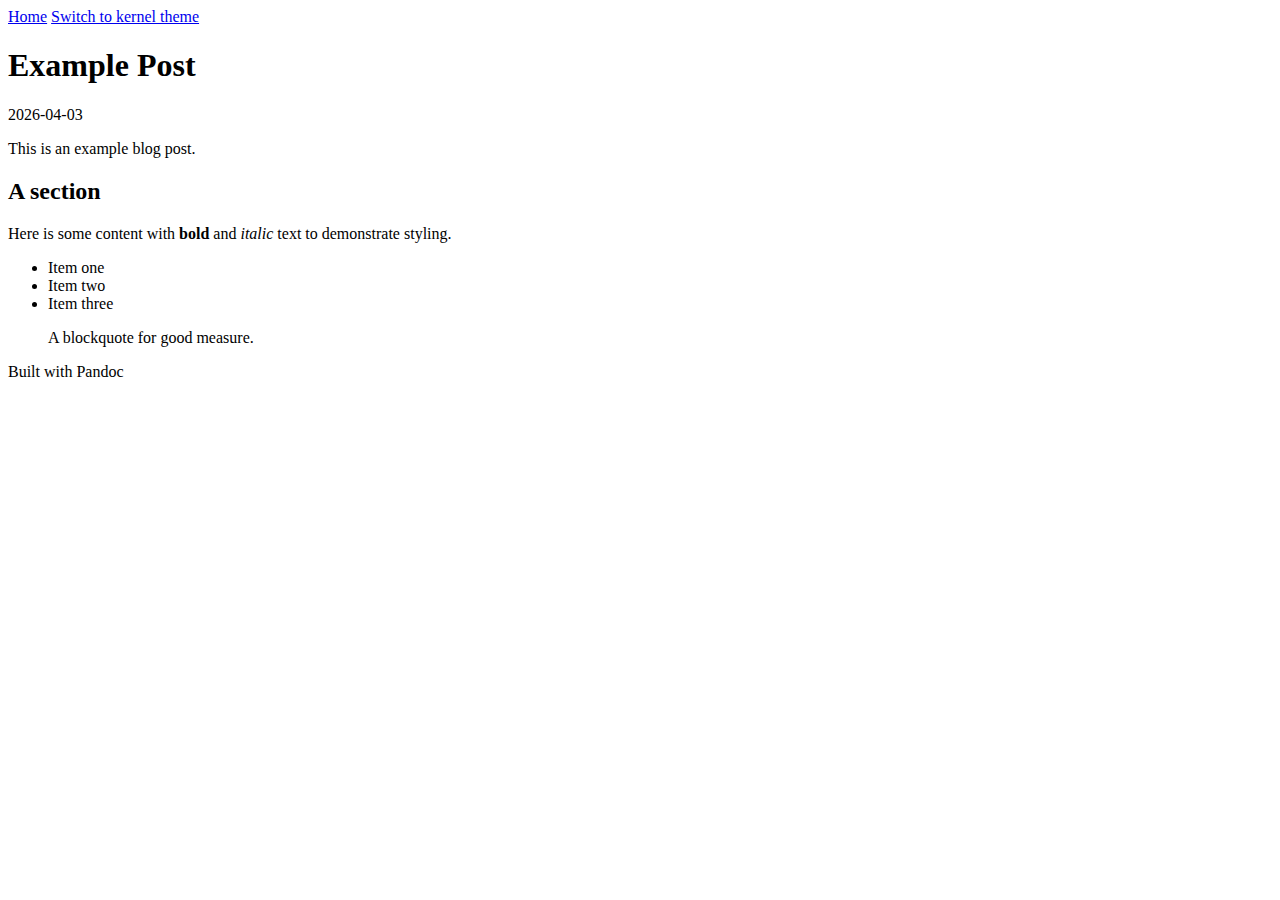
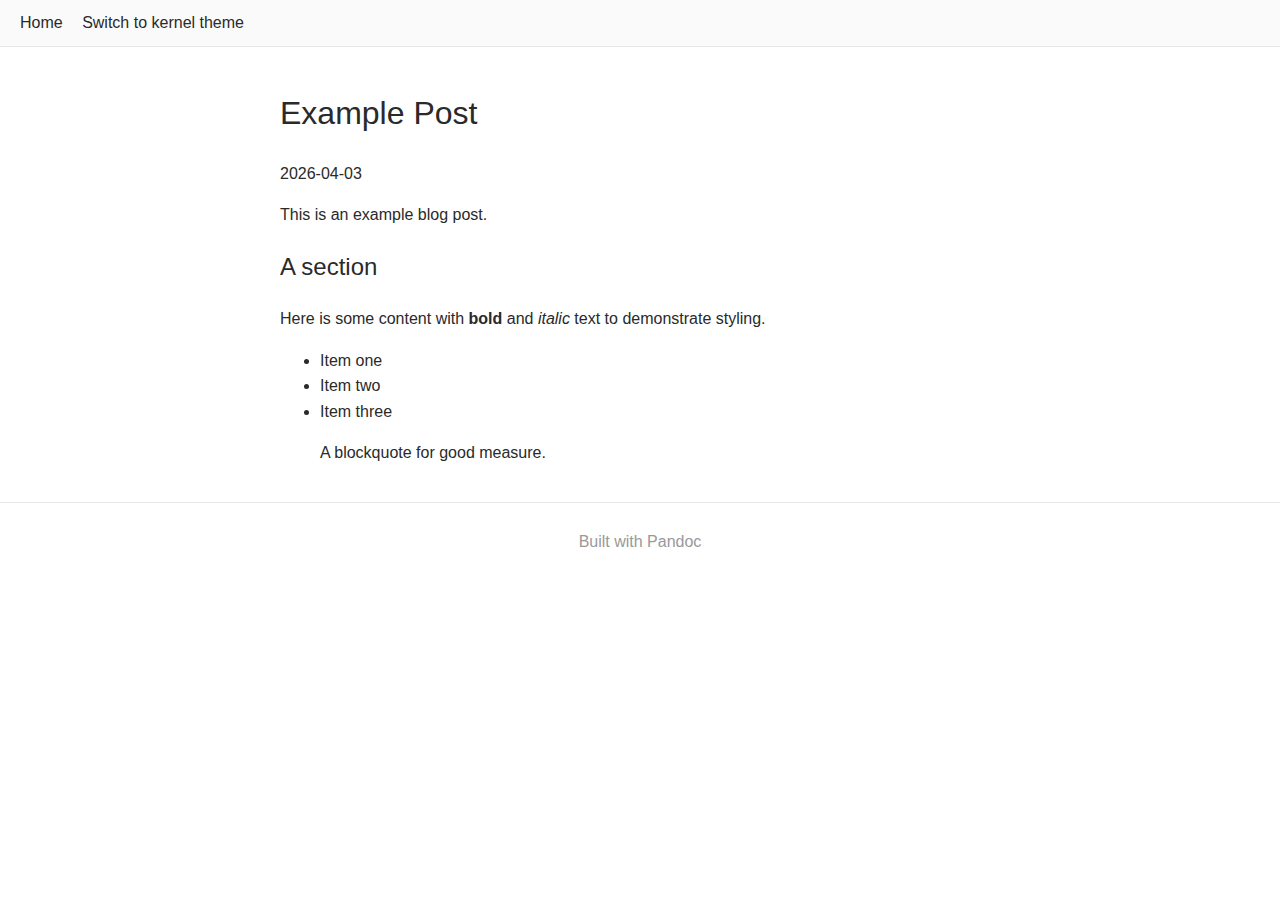
deploy: 4b27a32d0cb9cf2032abcf42c1e101b5034c0735

diff --git a/2026-04-03-example-post-kernel.html b/2026-04-03-example-post-kernel.html
@@ -7,17 +7,23 @@
   <meta name="date" content="2026-04-03">
   <link rel="stylesheet" href="css/kernel.min.css">
 </head>
-<body>
-  <header>
-    <nav>
-      <a href="index-kernel.html">Home</a>
-            <a href="2026-04-03-example-post.html">Switch to ellegant theme</a>
-          </nav>
-    <h1>Example Post</h1>
-    <p><time datetime="2026-04-03">2026-04-03</time></p>
+<body class="ke-modern">
+  <header class="ke-header ke-header-sm">
+    <div class="ke-container">
+      <input class="ke-nav-toggle" id="ke-nav-toggle" type="checkbox">
+      <label for="ke-nav-toggle" class="ke-nav-toggle-hamburger"><span>&#9776;</span></label>
+      <nav class="ke-nav">
+        <ul>
+          <li><a href="index-kernel.html">Home</a></li>
+                    <li><a href="2026-04-03-example-post.html">Switch to ellegant theme</a></li>
+                  </ul>
+      </nav>
+    </div>
   </header>
 
-  <main>
+  <main class="ke-container ke-content">
+    <h1>Example Post</h1>
+    <p><time datetime="2026-04-03">2026-04-03</time></p>
 <p>This is an example blog post.</p>
 <h2 id="a-section">A section</h2>
 <p>Here is some content with <strong>bold</strong> and <em>italic</em>
@@ -34,7 +40,11 @@ text to demonstrate styling.</p>
   </main>
 
   <footer>
-    <p>Built with Pandoc</p>
+    <div class="ke-bg-default ke-content">
+      <div class="ke-container">
+        <p>Built with Pandoc</p>
+      </div>
+    </div>
   </footer>
 </body>
 </html>

diff --git a/2026-04-03-example-post.html b/2026-04-03-example-post.html
@@ -6,6 +6,38 @@
   <title>Example Post | Blog</title>
   <meta name="date" content="2026-04-03">
   <link rel="stylesheet" href="css/ellegant.min.css">
+  <style>
+    body {
+      font-family: -apple-system, "Segoe UI", Helvetica Neue, Arial, sans-serif;
+      color: #2a2a2a;
+      margin: 0;
+      line-height: 1.6;
+    }
+    nav {
+      background: #fafafa;
+      border-bottom: 1px solid #e8e8e8;
+      padding: 10px 20px;
+    }
+    nav a {
+      color: #2a2a2a;
+      text-decoration: none;
+      margin-right: 15px;
+    }
+    nav a:hover { color: #018fe8; }
+    main {
+      max-width: 720px;
+      margin: 0 auto;
+      padding: 20px;
+    }
+    h1, h2, h3, h4, h5, h6 { font-weight: 400; }
+    a { color: #018fe8; }
+    footer {
+      border-top: 1px solid #e8e8e8;
+      padding: 10px 20px;
+      color: #999;
+      text-align: center;
+    }
+  </style>
 </head>
 <body>
   <header>
@@ -13,11 +45,11 @@
       <a href="index.html">Home</a>
             <a href="2026-04-03-example-post-kernel.html">Switch to kernel theme</a>
           </nav>
-    <h1>Example Post</h1>
-    <p><time datetime="2026-04-03">2026-04-03</time></p>
   </header>
 
   <main>
+    <h1>Example Post</h1>
+    <p><time datetime="2026-04-03">2026-04-03</time></p>
 <p>This is an example blog post.</p>
 <h2 id="a-section">A section</h2>
 <p>Here is some content with <strong>bold</strong> and <em>italic</em>

diff --git a/index.html b/index.html
@@ -6,6 +6,38 @@
   <title>My Blog | Blog</title>
   
   <link rel="stylesheet" href="css/ellegant.min.css">
+  <style>
+    body {
+      font-family: -apple-system, "Segoe UI", Helvetica Neue, Arial, sans-serif;
+      color: #2a2a2a;
+      margin: 0;
+      line-height: 1.6;
+    }
+    nav {
+      background: #fafafa;
+      border-bottom: 1px solid #e8e8e8;
+      padding: 10px 20px;
+    }
+    nav a {
+      color: #2a2a2a;
+      text-decoration: none;
+      margin-right: 15px;
+    }
+    nav a:hover { color: #018fe8; }
+    main {
+      max-width: 720px;
+      margin: 0 auto;
+      padding: 20px;
+    }
+    h1, h2, h3, h4, h5, h6 { font-weight: 400; }
+    a { color: #018fe8; }
+    footer {
+      border-top: 1px solid #e8e8e8;
+      padding: 10px 20px;
+      color: #999;
+      text-align: center;
+    }
+  </style>
 </head>
 <body>
   <header>
@@ -13,11 +45,11 @@
       <a href="index.html">Home</a>
             <a href="index-kernel.html">Switch to kernel theme</a>
           </nav>
-    <h1>My Blog</h1>
-    
   </header>
 
   <main>
+    <h1>My Blog</h1>
+    
 <p>Welcome to my blog.</p>
 <h2>Posts</h2><ul><li><time>2026-04-03</time> &mdash; <a href="2026-04-03-example-post.html">Example Post</a></li></ul>
   </main>

diff --git a/index-kernel.html b/index-kernel.html
@@ -7,23 +7,33 @@
   
   <link rel="stylesheet" href="css/kernel.min.css">
 </head>
-<body>
-  <header>
-    <nav>
-      <a href="index-kernel.html">Home</a>
-            <a href="index.html">Switch to ellegant theme</a>
-          </nav>
-    <h1>My Blog</h1>
-    
+<body class="ke-modern">
+  <header class="ke-header ke-header-sm">
+    <div class="ke-container">
+      <input class="ke-nav-toggle" id="ke-nav-toggle" type="checkbox">
+      <label for="ke-nav-toggle" class="ke-nav-toggle-hamburger"><span>&#9776;</span></label>
+      <nav class="ke-nav">
+        <ul>
+          <li><a href="index-kernel.html">Home</a></li>
+                    <li><a href="index.html">Switch to ellegant theme</a></li>
+                  </ul>
+      </nav>
+    </div>
   </header>
 
-  <main>
+  <main class="ke-container ke-content">
+    <h1>My Blog</h1>
+    
 <p>Welcome to my blog.</p>
 <h2>Posts</h2><ul><li><time>2026-04-03</time> &mdash; <a href="2026-04-03-example-post-kernel.html">Example Post</a></li></ul>
   </main>
 
   <footer>
-    <p>Built with Pandoc</p>
+    <div class="ke-bg-default ke-content">
+      <div class="ke-container">
+        <p>Built with Pandoc</p>
+      </div>
+    </div>
   </footer>
 </body>
 </html>
